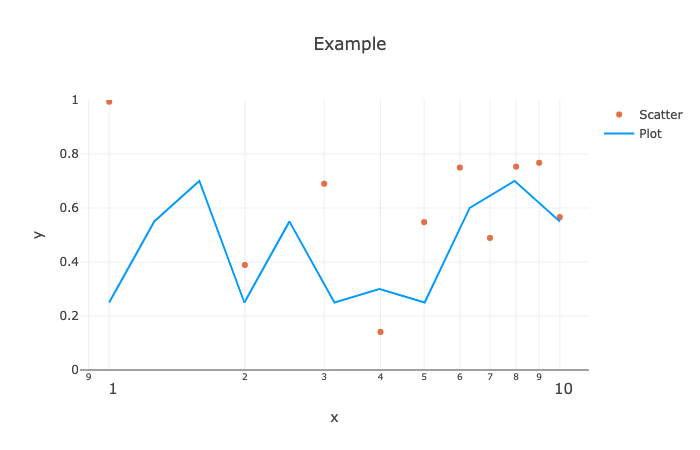
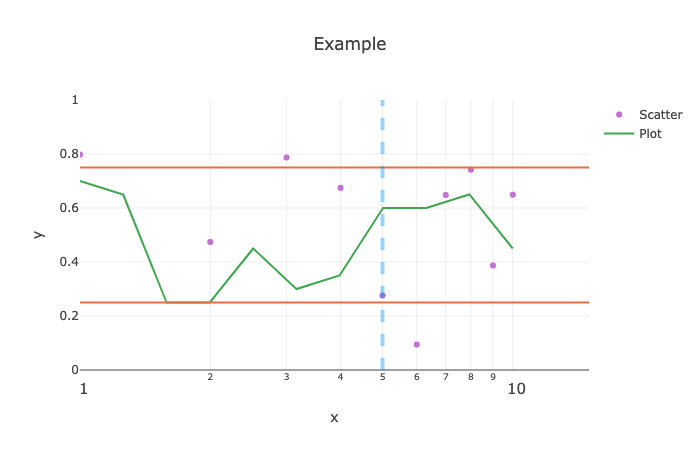
Update readme and use as project specs

diff --git a/README.md b/README.md
@@ -14,8 +14,8 @@ using SimplePlots
 
 ```julia
 scatter(
-  rand(10), label="Scatter", color=2,
-  xlabel="x"
+  rand(10), label="Scatter", color=4,
+  xlabel="x", markersize=6
 )
 
 ylabel!("y")
@@ -23,7 +23,12 @@ ylabel!("y")
 cur_x = 10 .^ (0:0.1:1)
 cur_y = rand(0.25:0.05:0.75, length(cur_x))
 
-plot!(cur_x, cur_y, label="Plot", color=1, title="Example")
+plot!(cur_x, cur_y, label="Plot", color=3, title="Example")
+
+hline!([1,3] ./ 4, color=2)
+vline!(5, linewidth=4, alpha=0.4, linestyle=:dash)
+
+plot!(xlim=(1,15))
 
 ylims!(0,1)
 xscale!(:log10)
